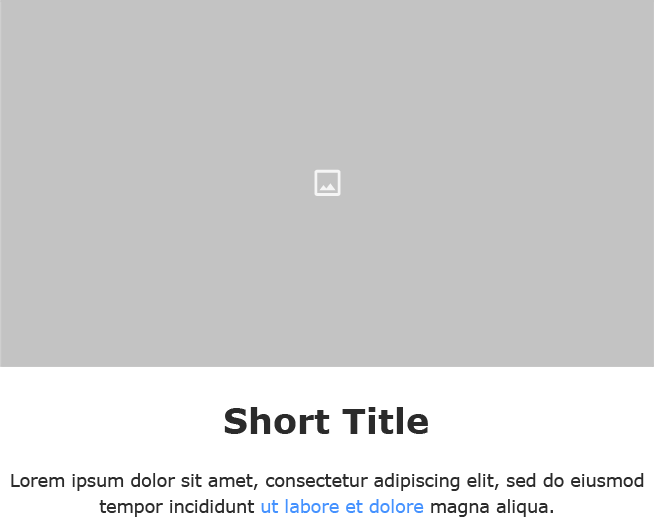
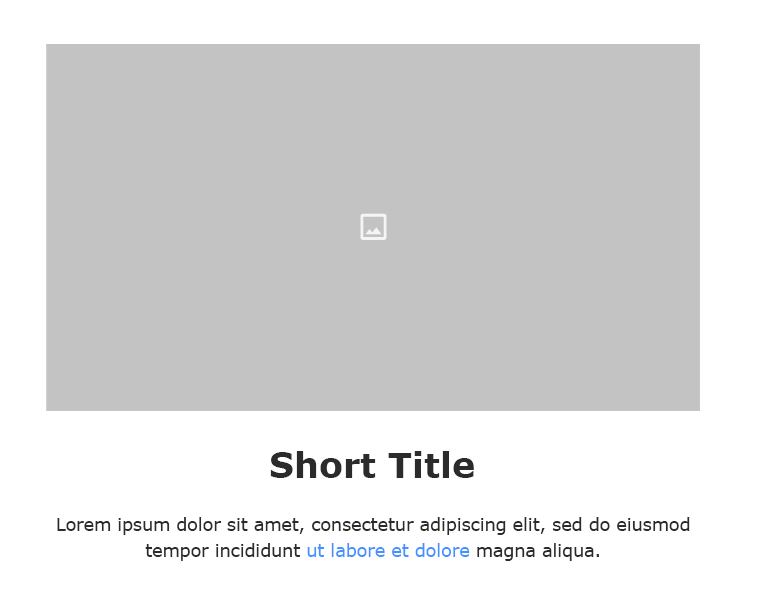
final changes

Changed region(s): [[0.0, 0.0, 1.0, 1.0], [0.4587, 0.3095, 0.5199, 0.4023]]

diff --git a/userfiles/templates/new-world/modules/layouts/templates/drag-n-drop/skin-6.php b/userfiles/templates/new-world/modules/layouts/templates/drag-n-drop/skin-6.php
@@ -27,7 +27,7 @@ $layout_classes = ' ' . $classes['padding_top'] . ' ' . $classes['padding_bottom
 <section class="section <?php print $layout_classes; ?> edit safe-mode " field="layout-drag-n-drop-skin-6-<?php print $params['id'] ?>" rel="module">
     <div class="container">
         <div class="row d-flex justify-content-center text-center">
-            <div class="col-md-6 col">
+            <div class="col-md-5 col">
                 <img class="rounded-xl pb-4" src="<?php print template_url(); ?>assets/img/image-for-layouts2.png" >
                 <h1 class="mb-3 font-weight-bold">Short Title</h1>
                 <p>Lorem ipsum dolor sit amet, consectetur adipiscing elit, sed do eiusmod tempor incididunt <a href="">ut labore et</a> dolore magna aliqua.</p>

diff --git a/userfiles/templates/new-world/modules/layouts/templates/drag-n-drop/skin-5.php b/userfiles/templates/new-world/modules/layouts/templates/drag-n-drop/skin-5.php
@@ -27,7 +27,7 @@ $layout_classes = ' ' . $classes['padding_top'] . ' ' . $classes['padding_bottom
 <section class="section <?php print $layout_classes; ?> edit safe-mode " field="layout-drag-n-drop-skin-5-<?php print $params['id'] ?>" rel="module">
     <div class="container">
         <div class="row d-flex justify-content-center text-center">
-            <div class="col-md-6 col">
+            <div class="col-md-5 col">
                 <img class="rounded-xl pb-4" src="<?php print template_url(); ?>assets/img/image-for-layouts.png" >
                 <h1 class="mb-3 font-weight-bold">Short Title</h1>
                 <p>Lorem ipsum dolor sit amet, consectetur adipiscing elit, sed do eiusmod tempor incididunt <a href="">ut labore et</a> dolore magna aliqua.</p>

diff --git a/userfiles/templates/new-world/modules/layouts/templates/drag-n-drop/skin-3.php b/userfiles/templates/new-world/modules/layouts/templates/drag-n-drop/skin-3.php
@@ -27,7 +27,7 @@ $layout_classes = ' ' . $classes['padding_top'] . ' ' . $classes['padding_bottom
 <section class="section <?php print $layout_classes; ?> edit safe-mode " field="layout-drag-n-drop-skin-3-<?php print $params['id'] ?>" rel="module">
     <div class="container">
         <div class="row d-flex justify-content-center">
-            <div class="col-md-6 col d-flex">
+            <div class="col-md-5 col d-flex">
                 <div class="col-md-6 col">
                     <p>Contrary to popular belief, Lorem Ipsum is not simply random text. It has roots in a piece of classical Latin literature from from 45 BC, making it over 2000 years old.</p>
                 </div>

diff --git a/userfiles/templates/new-world/modules/layouts/templates/drag-n-drop/skin-2.php b/userfiles/templates/new-world/modules/layouts/templates/drag-n-drop/skin-2.php
@@ -27,7 +27,7 @@ $layout_classes = ' ' . $classes['padding_top'] . ' ' . $classes['padding_bottom
 <section class="section <?php print $layout_classes; ?> edit safe-mode " field="layout-drag-n-drop-skin-2-<?php print $params['id'] ?>" rel="module">
     <div class="container">
         <div class="row d-flex justify-content-center text-center">
-            <div class="col-md-6 col">
+            <div class="col-md-5 col">
                 <div class="mb-3"><i class="mdi mdi-earth " style="font-size: 48px;"></i></div>
                 <p>Lorem ipsum dolor sit amet, consectetur adipiscing elit, sed do eiusmod tempor incididunt ut labore et dolore magna aliqua.</p>
             </div>

diff --git a/userfiles/templates/new-world/modules/layouts/templates/drag-n-drop/skin-1.php b/userfiles/templates/new-world/modules/layouts/templates/drag-n-drop/skin-1.php
@@ -27,7 +27,7 @@ $layout_classes = ' ' . $classes['padding_top'] . ' ' . $classes['padding_bottom
 <section class="section <?php print $layout_classes; ?> edit safe-mode " field="layout-drag-n-drop-skin-1-<?php print $params['id'] ?>" rel="module">
     <div class="container">
         <div class="row d-flex justify-content-center text-center">
-            <div class="col-md-6 col">
+            <div class="col-md-5 col">
                 <h1 class="mb-3 font-weight-bold">Short Title</h1>
                 <p>Lorem ipsum dolor sit amet, consectetur adipiscing elit, sed do eiusmod tempor incididunt <a href="">ut labore et</a> dolore magna aliqua.</p>
             </div>

diff --git a/userfiles/templates/new-world/modules/layouts/templates/drag-n-drop/skin-4.php b/userfiles/templates/new-world/modules/layouts/templates/drag-n-drop/skin-4.php
@@ -27,7 +27,7 @@ $layout_classes = ' ' . $classes['padding_top'] . ' ' . $classes['padding_bottom
 <section class="section <?php print $layout_classes; ?> edit safe-mode " field="layout-drag-n-drop-skin-4-<?php print $params['id'] ?>" rel="module">
     <div class="container">
         <div class="row d-flex justify-content-center">
-           <div class="col-md-6 col d-flex">
+           <div class="col-md-5 col d-flex">
                <div class="col-md-6 col">
                    <div class="mb-3"><i class="mdi mdi-earth" style="font-size: 25px;"></i></div>
                    <h6 class="mb-3 font-weight-bold">Awesome title</h6>

diff --git a/userfiles/templates/new-world/modules/layouts/templates/drag-n-drop/skin-7.php b/userfiles/templates/new-world/modules/layouts/templates/drag-n-drop/skin-7.php
@@ -27,7 +27,7 @@ $layout_classes = ' ' . $classes['padding_top'] . ' ' . $classes['padding_bottom
 <section class="section <?php print $layout_classes; ?> edit safe-mode " field="layout-drag-n-drop-skin-7-<?php print $params['id'] ?>" rel="module">
     <div class="container">
         <div class="row d-flex justify-content-center text-center">
-            <div class="col-md-6 col">
+            <div class="col-md-5 col">
                 <img class="rounded-xl pb-4" src="<?php print template_url(); ?>assets/img/video_for_layouts.png" >
             </div>
         </div>

diff --git a/userfiles/templates/new-world/modules/layouts/templates/drag-n-drop/skin-8.php b/userfiles/templates/new-world/modules/layouts/templates/drag-n-drop/skin-8.php
@@ -27,7 +27,7 @@ $layout_classes = ' ' . $classes['padding_top'] . ' ' . $classes['padding_bottom
 <section class="section <?php print $layout_classes; ?> edit safe-mode" field="layout-drag-n-drop-skin-8-<?php print $params['id'] ?>" rel="module">
     <div class="container">
         <div class="row d-flex justify-content-center text-center">
-            <div class="col-md-6 col">
+            <div class="col-md-5 col">
                 <img class="rounded-xl pb-4" src="<?php print template_url(); ?>assets/img/image-for-layouts.png" >
             </div>
         </div>
